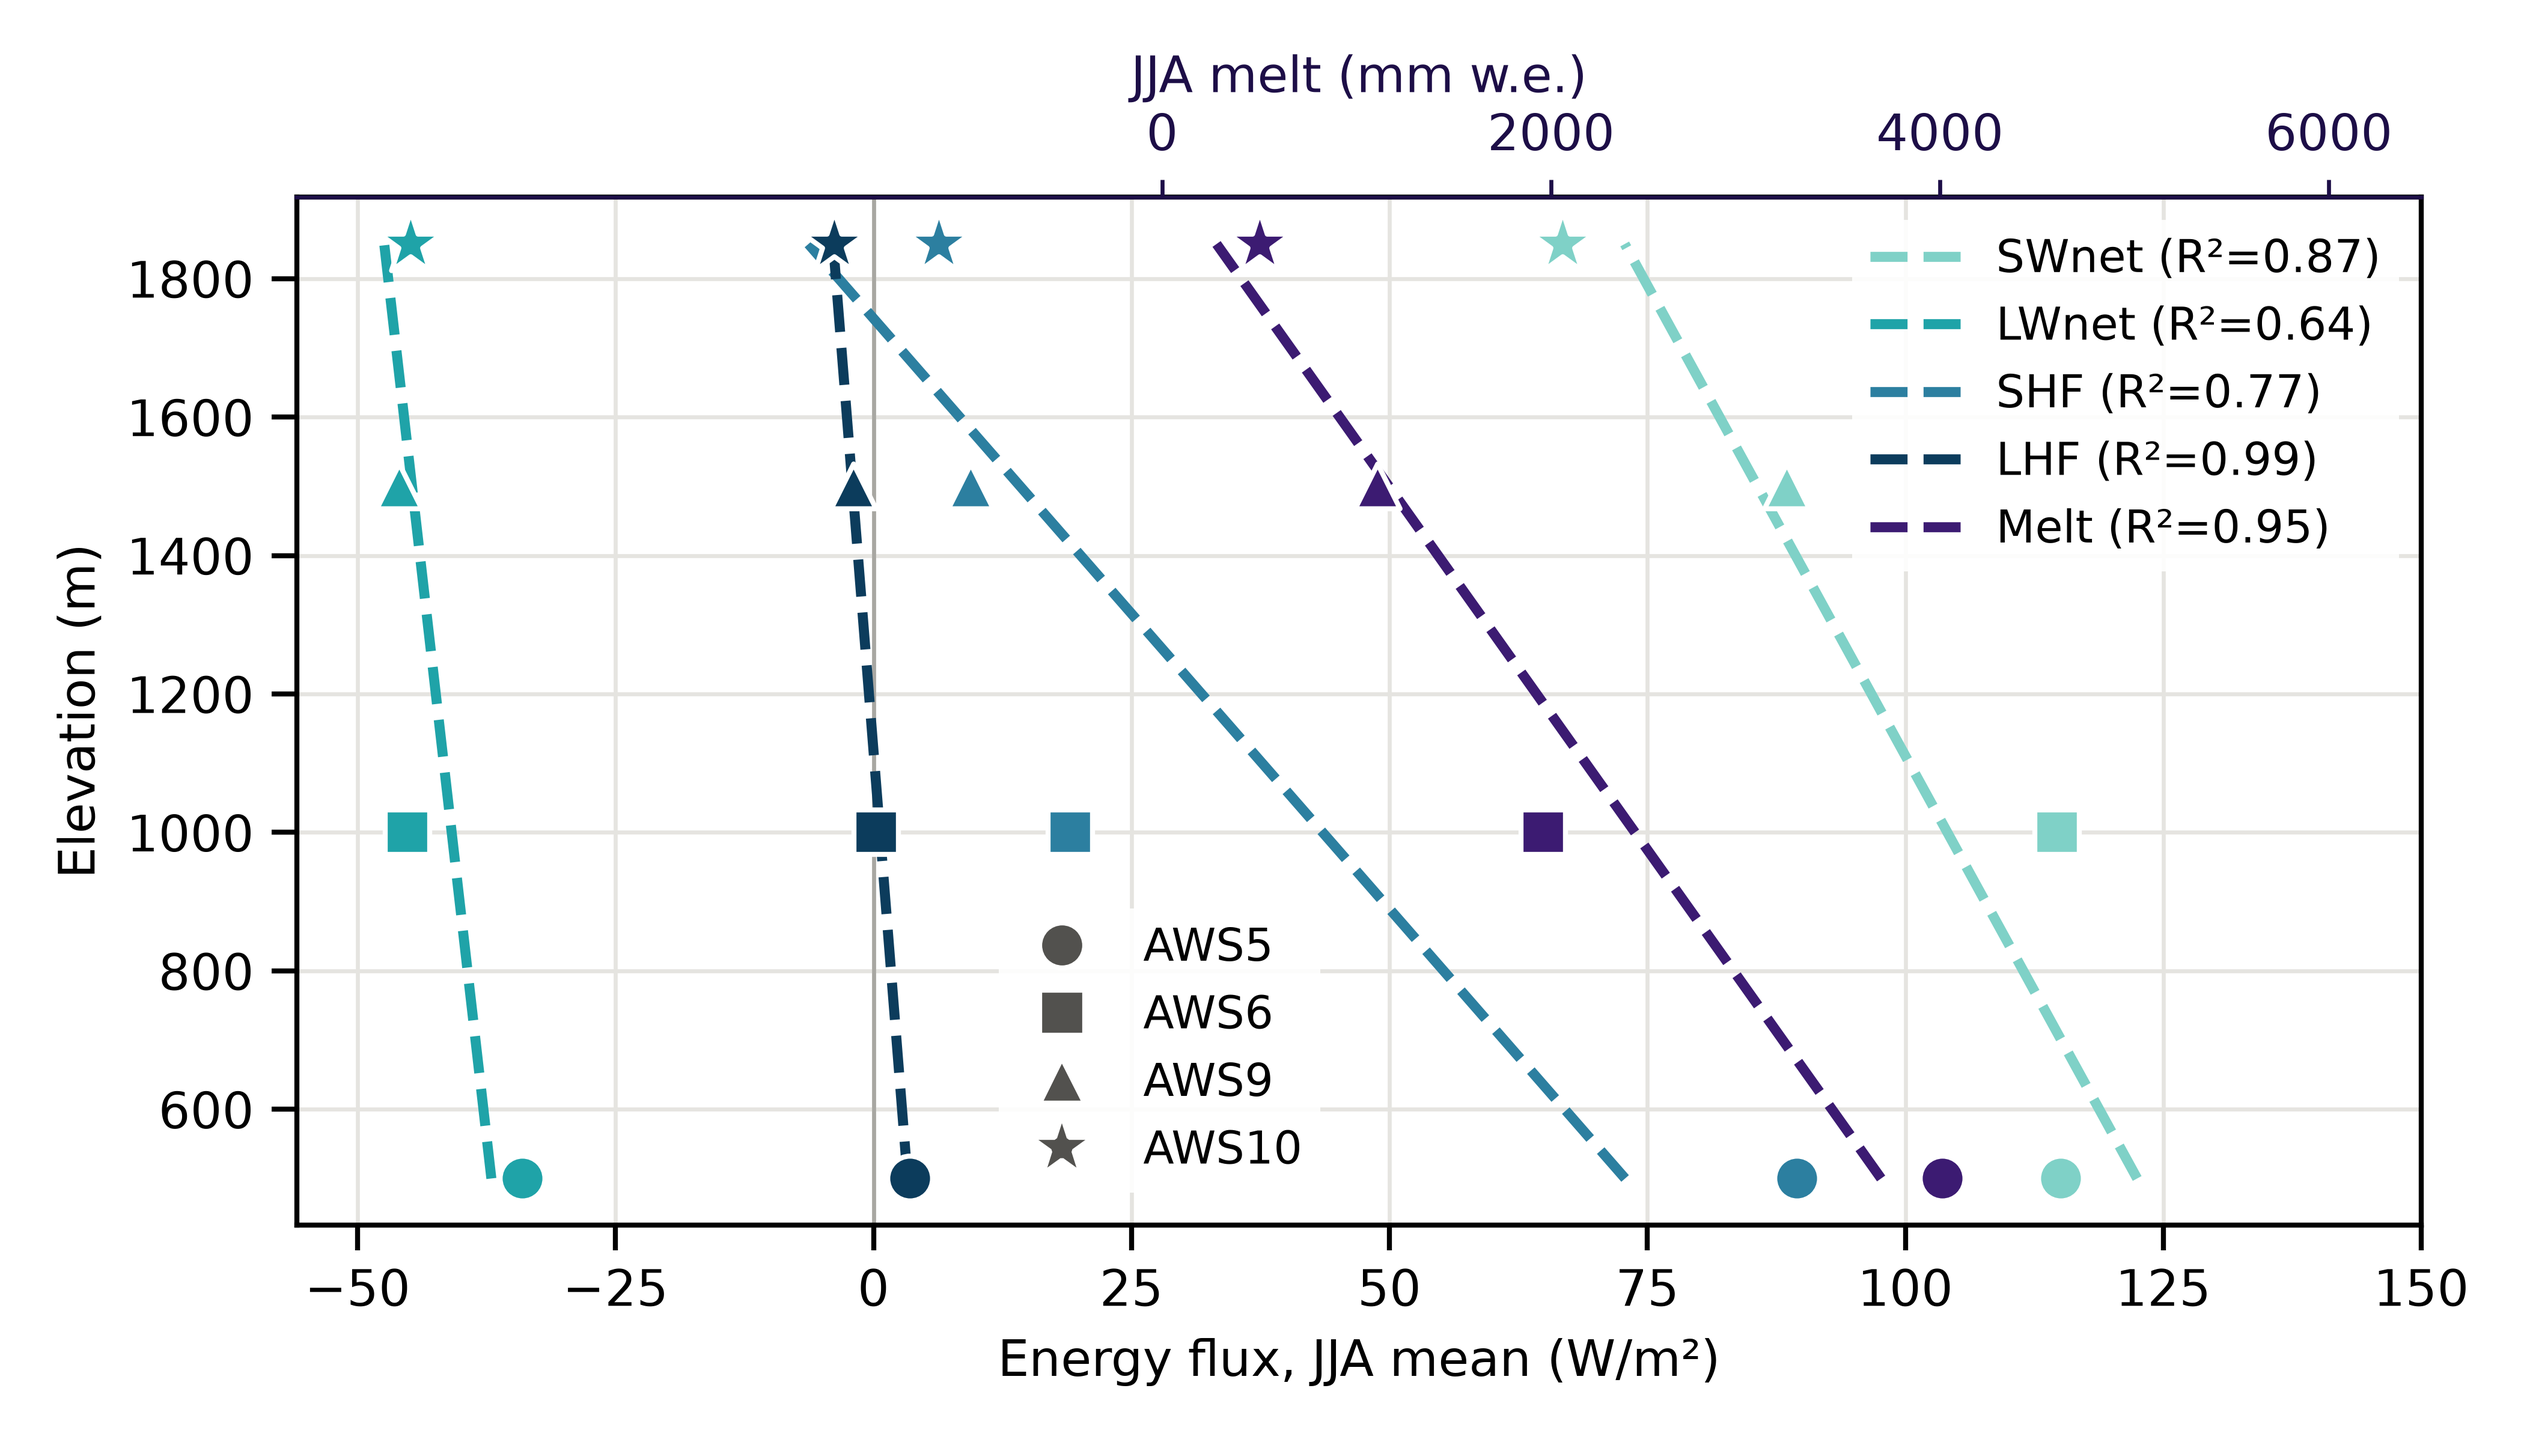
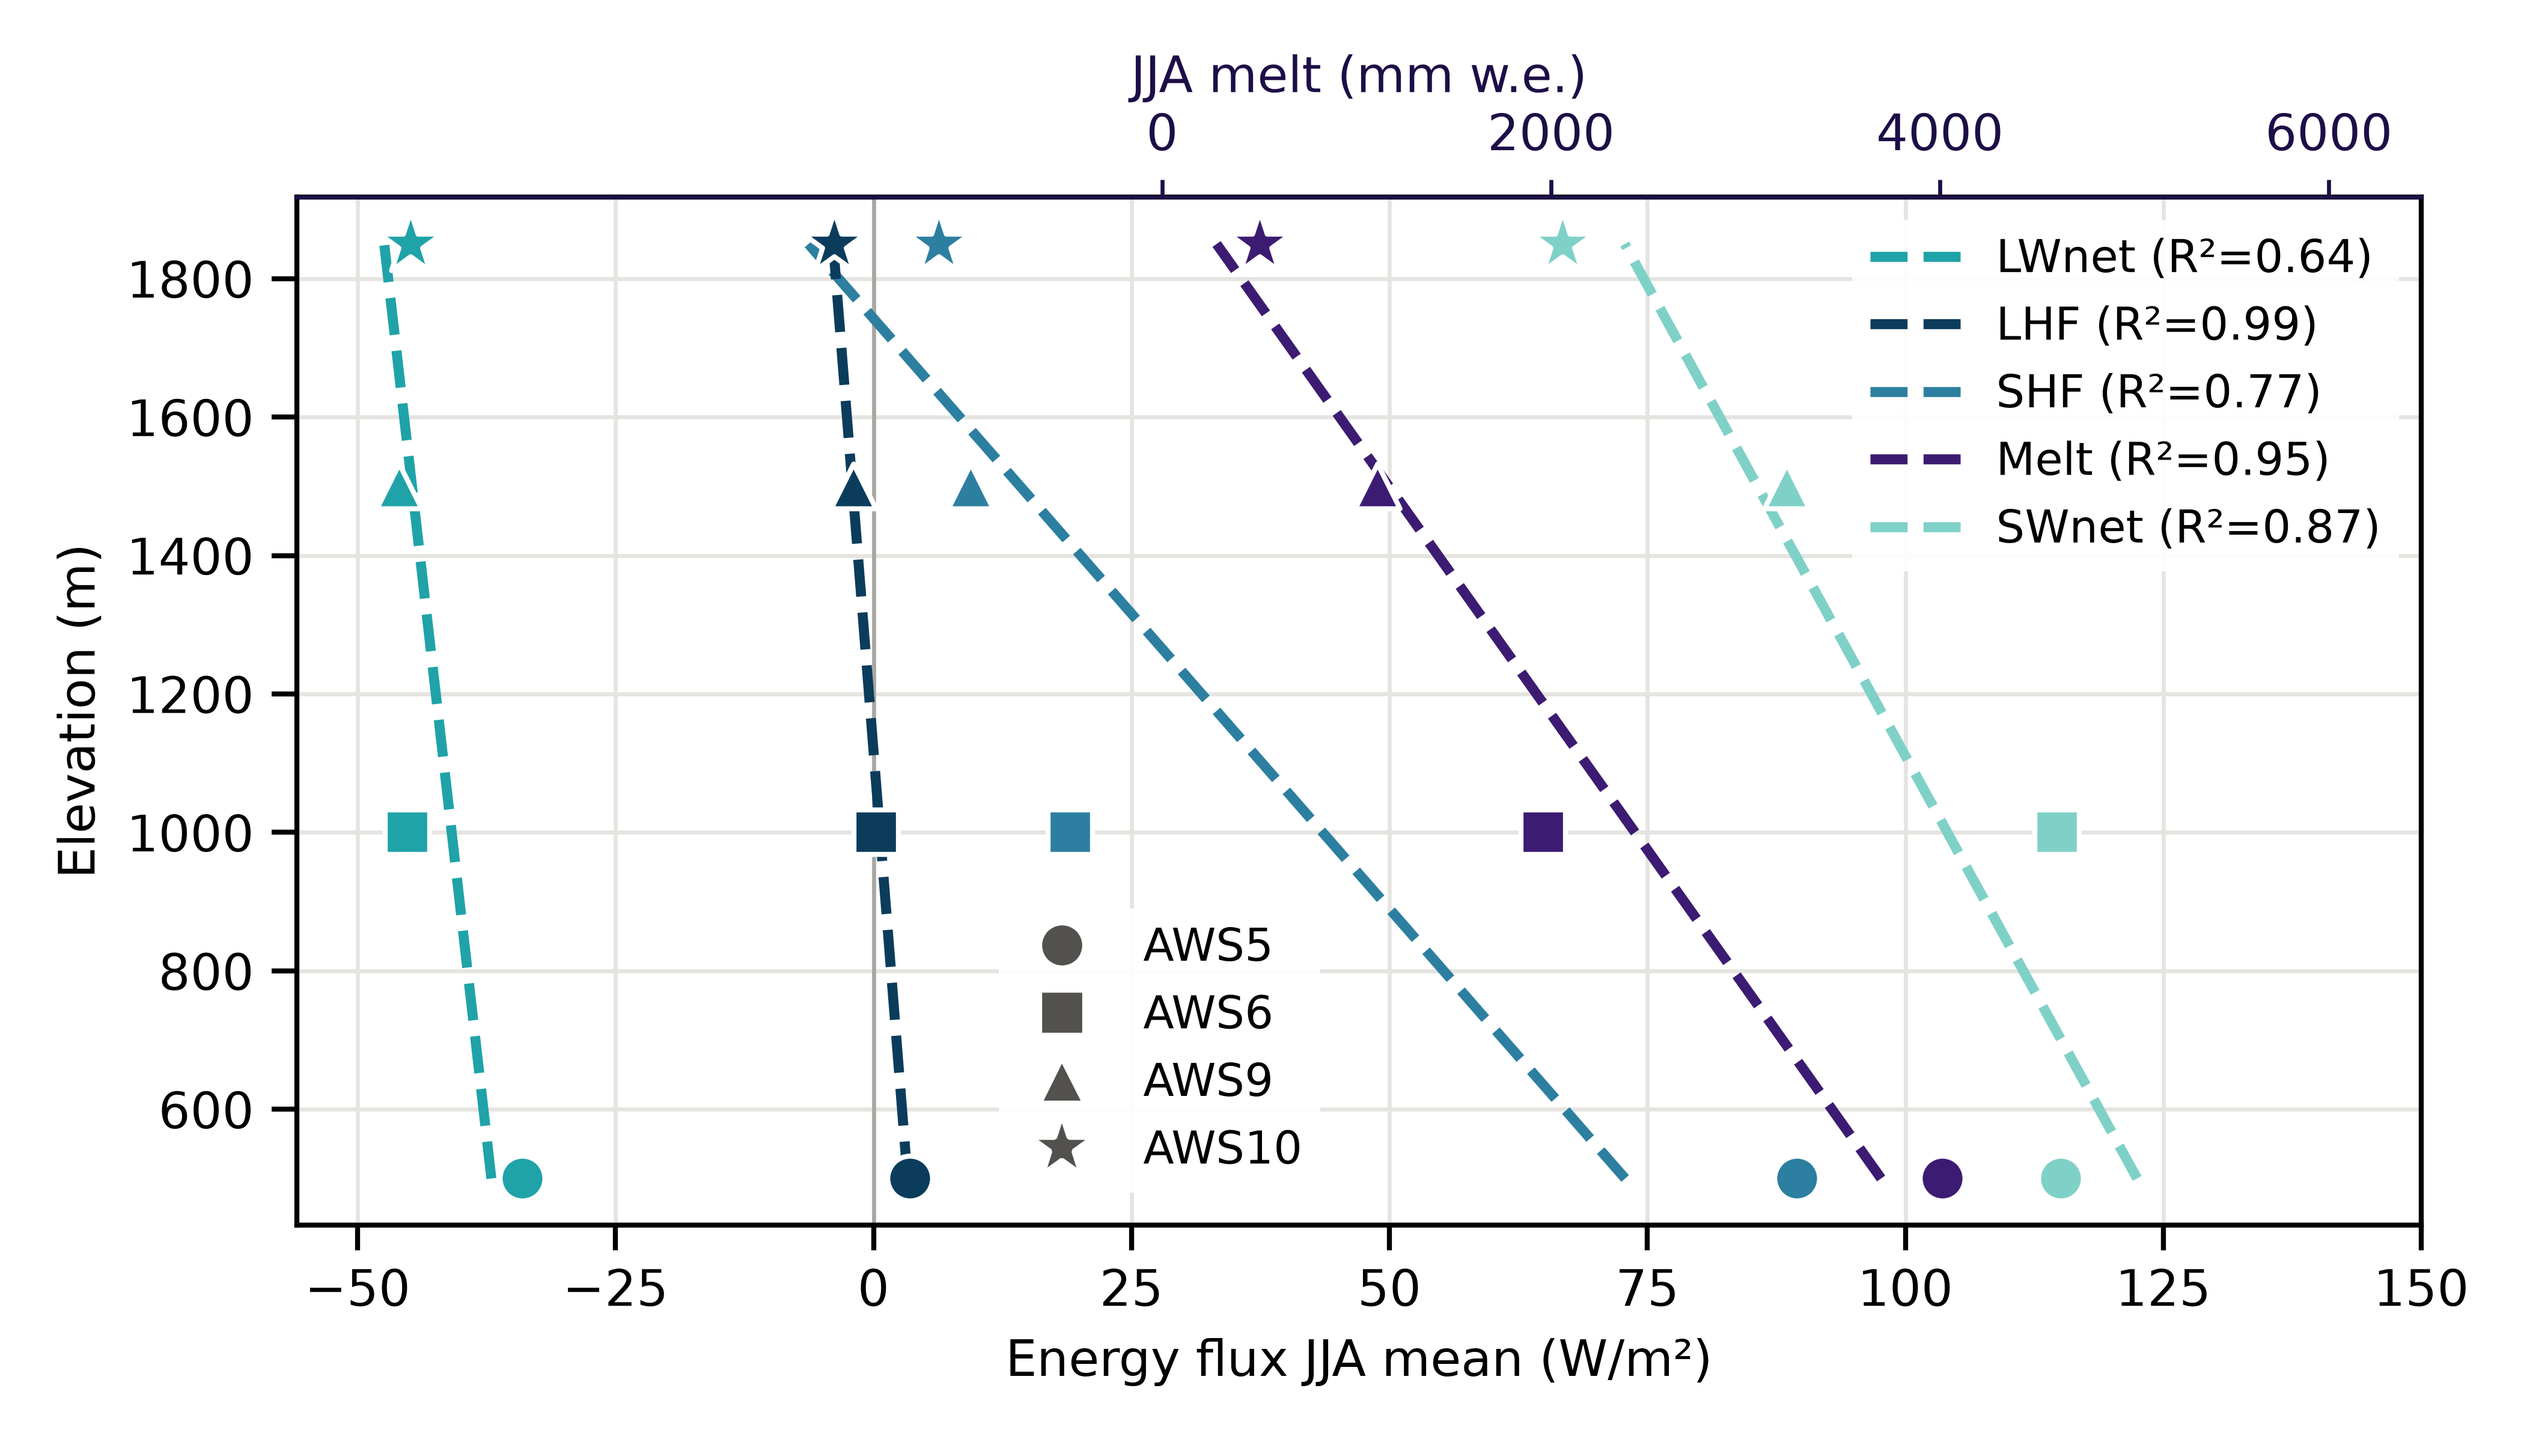
Nieuwer

diff --git a/code/paper_reproduction.py b/code/paper_reproduction.py
@@ -383,43 +383,50 @@ def plot_annual_jja_melt(stations=STATIONS, out="figure8_annual_jja_melt.png", t
         ax.tick_params(axis="x", labelrotation=45)
     ax.set_ylabel("Total melt energy (MJ m$^{-2}$)", fontsize=12)
     ax.set_xlabel("Year", fontsize=12)
-    if title:
-        ax.set_title(title, fontsize=11, loc="left", pad=40)
+        # Geen titel
+    ax.set_title("")
+
     if ylim is not None:
         ax.set_ylim(ylim)
+
     ax.grid(True, linestyle="--", linewidth=0.7, alpha=0.25)
 
+        # Linksboven: lijnstijlen
     style_handles = [
         Line2D([0], [0], color="black", lw=2.5, ls="-",
-            marker="o", markersize=7, label="Annual"),
+               marker="o", markersize=7, label="Annual"),
         Line2D([0], [0], color="black", lw=2.5, ls="--",
-            marker="o", markerfacecolor="white",
-            markeredgecolor="black", markersize=7, label="JJA"),]
+               marker="o", markerfacecolor="white",
+               markeredgecolor="black", markersize=7, label="JJA"),
+    ]
 
     leg1 = ax.legend(
         handles=style_handles,
-        loc="lower left", bbox_to_anchor=(0, 1.01),
-        frameon=False)
-
+        loc="upper left",
+        frameon=True,
+        framealpha=0.9,
+        edgecolor="none",
+        fontsize=9
+    )
     ax.add_artist(leg1)
 
-    station_handles = [Line2D(
-            [0], [0],
-            marker="o",
-            linestyle="none",
-            color=COLORS[st],
-            markersize=8,
-            label=st)
-        for st in stations]
+    # Rechtsboven: stationskleuren in twee kolommen
+    station_handles = [
+        Line2D([0], [0], marker="o", linestyle="none",
+               color=COLORS[st], markersize=8, label=st)
+        for st in stations
+    ]
 
-    leg2 = ax.legend(
+    ax.legend(
         handles=station_handles,
-        loc="lower right", bbox_to_anchor=(1, 1.01), ncol=2,
-        frameon=False,
-        labelcolor="black",
-        handletextpad=0.6)
-
-    ax.add_artist(leg2)
+        loc="upper right",
+        ncol=2,
+        frameon=True,
+        framealpha=0.9,
+        edgecolor="none",
+        fontsize=9,
+        columnspacing=1.0
+    )
 
     fig.tight_layout()
     fig.savefig(out, dpi=600, bbox_inches="tight")
@@ -499,7 +506,7 @@ def plot_figure8_both_methods(out):
             mc.MELT_METHOD = method
             # zelfde y-as voor beide versies, zodat ze direct te vergelijken zijn
             plot_annual_jja_melt(out=Path(out) / f"figure8_annual_jja_melt_{method}.png", title=title,
-                                 ylim=(0, 2400))
+                                 ylim=(0, 2100))
     finally:
         mc.MELT_METHOD = original
 

diff --git a/code/elevation_albedo.py b/code/elevation_albedo.py
@@ -304,7 +304,7 @@ def plot_gradients(clim_full, clim_common, grads, out):
 
     lines = [_gradient_series(ax, clim_full, v, SERIES_COLORS[v], lab(v)) for v in ["SWnet", "LWnet", "SHF", "LHF"]]    
     ax.axvline(0, color="#a8a7a2", lw=0.8, zorder=1)
-    ax.set_xlabel("Energy flux, JJA mean (W/m²)")
+    ax.set_xlabel("Energy flux JJA mean (W/m²)")
     ax.set_ylabel("Elevation (m)")
     style(ax)
     top = ax.twiny()
@@ -330,10 +330,12 @@ def plot_gradients(clim_full, clim_common, grads, out):
     top.tick_params(axis="x", colors=melt_color)
     top.spines["top"].set_color(melt_color)
 
-    series_vars = ["SWnet", "LWnet", "SHF", "LHF", "melt"]
+    series_vars = ["LWnet", "LHF", "SHF", "melt", "SWnet"]
     short = {"SWnet": "SWnet", "LWnet": "LWnet", "SHF": "SHF", "LHF": "LHF", "melt": "Melt"}
     series_names = [f"{short[v]} (R²={grads.loc[v].r2:.2f})" for v in series_vars]
-    leg_series = top.legend(handles=lines, labels=series_names, frameon=True, framealpha=0.9,
+    line_by_var = dict(zip(["SWnet", "LWnet", "SHF", "LHF", "melt"], lines))
+    ordered_lines = [line_by_var[v] for v in series_vars]
+    leg_series = top.legend(handles=ordered_lines, labels=series_names, frameon=True, framealpha=0.9,
                             edgecolor="none", fontsize=9, loc="upper right")
     top.add_artist(leg_series)
     top.legend(handles=_station_legend(clim_full), frameon=True, framealpha=0.9, edgecolor="none",

diff --git a/code/uncertainty.py b/code/uncertainty.py
@@ -314,7 +314,7 @@ def plot_correlation_table(cor, out, stations=tuple(mc.AWS_STATIONS)):
     from matplotlib.patches import Rectangle
     vars_ = ["SWnet", "LWnet", "SHF", "LHF", "albedo"]
     labels = [r"SW$_\mathrm{net}$", r"LW$_\mathrm{net}$", "SHF", "LHF", "Albedo"]
-    c = cor[cor["subset"] == "alleen type 0"].set_index(["station", "variabele"])
+    c = cor[cor["subset"] == "alle jaren"].set_index(["station", "variabele"])
     fmt = lambda x: f"{x:.2f}".replace("-", "−")
     pad, half = 0.06, 0.44                  # celrand en halve breedte van de balkruimte
     fig, ax = plt.subplots(figsize=(8, 4))
